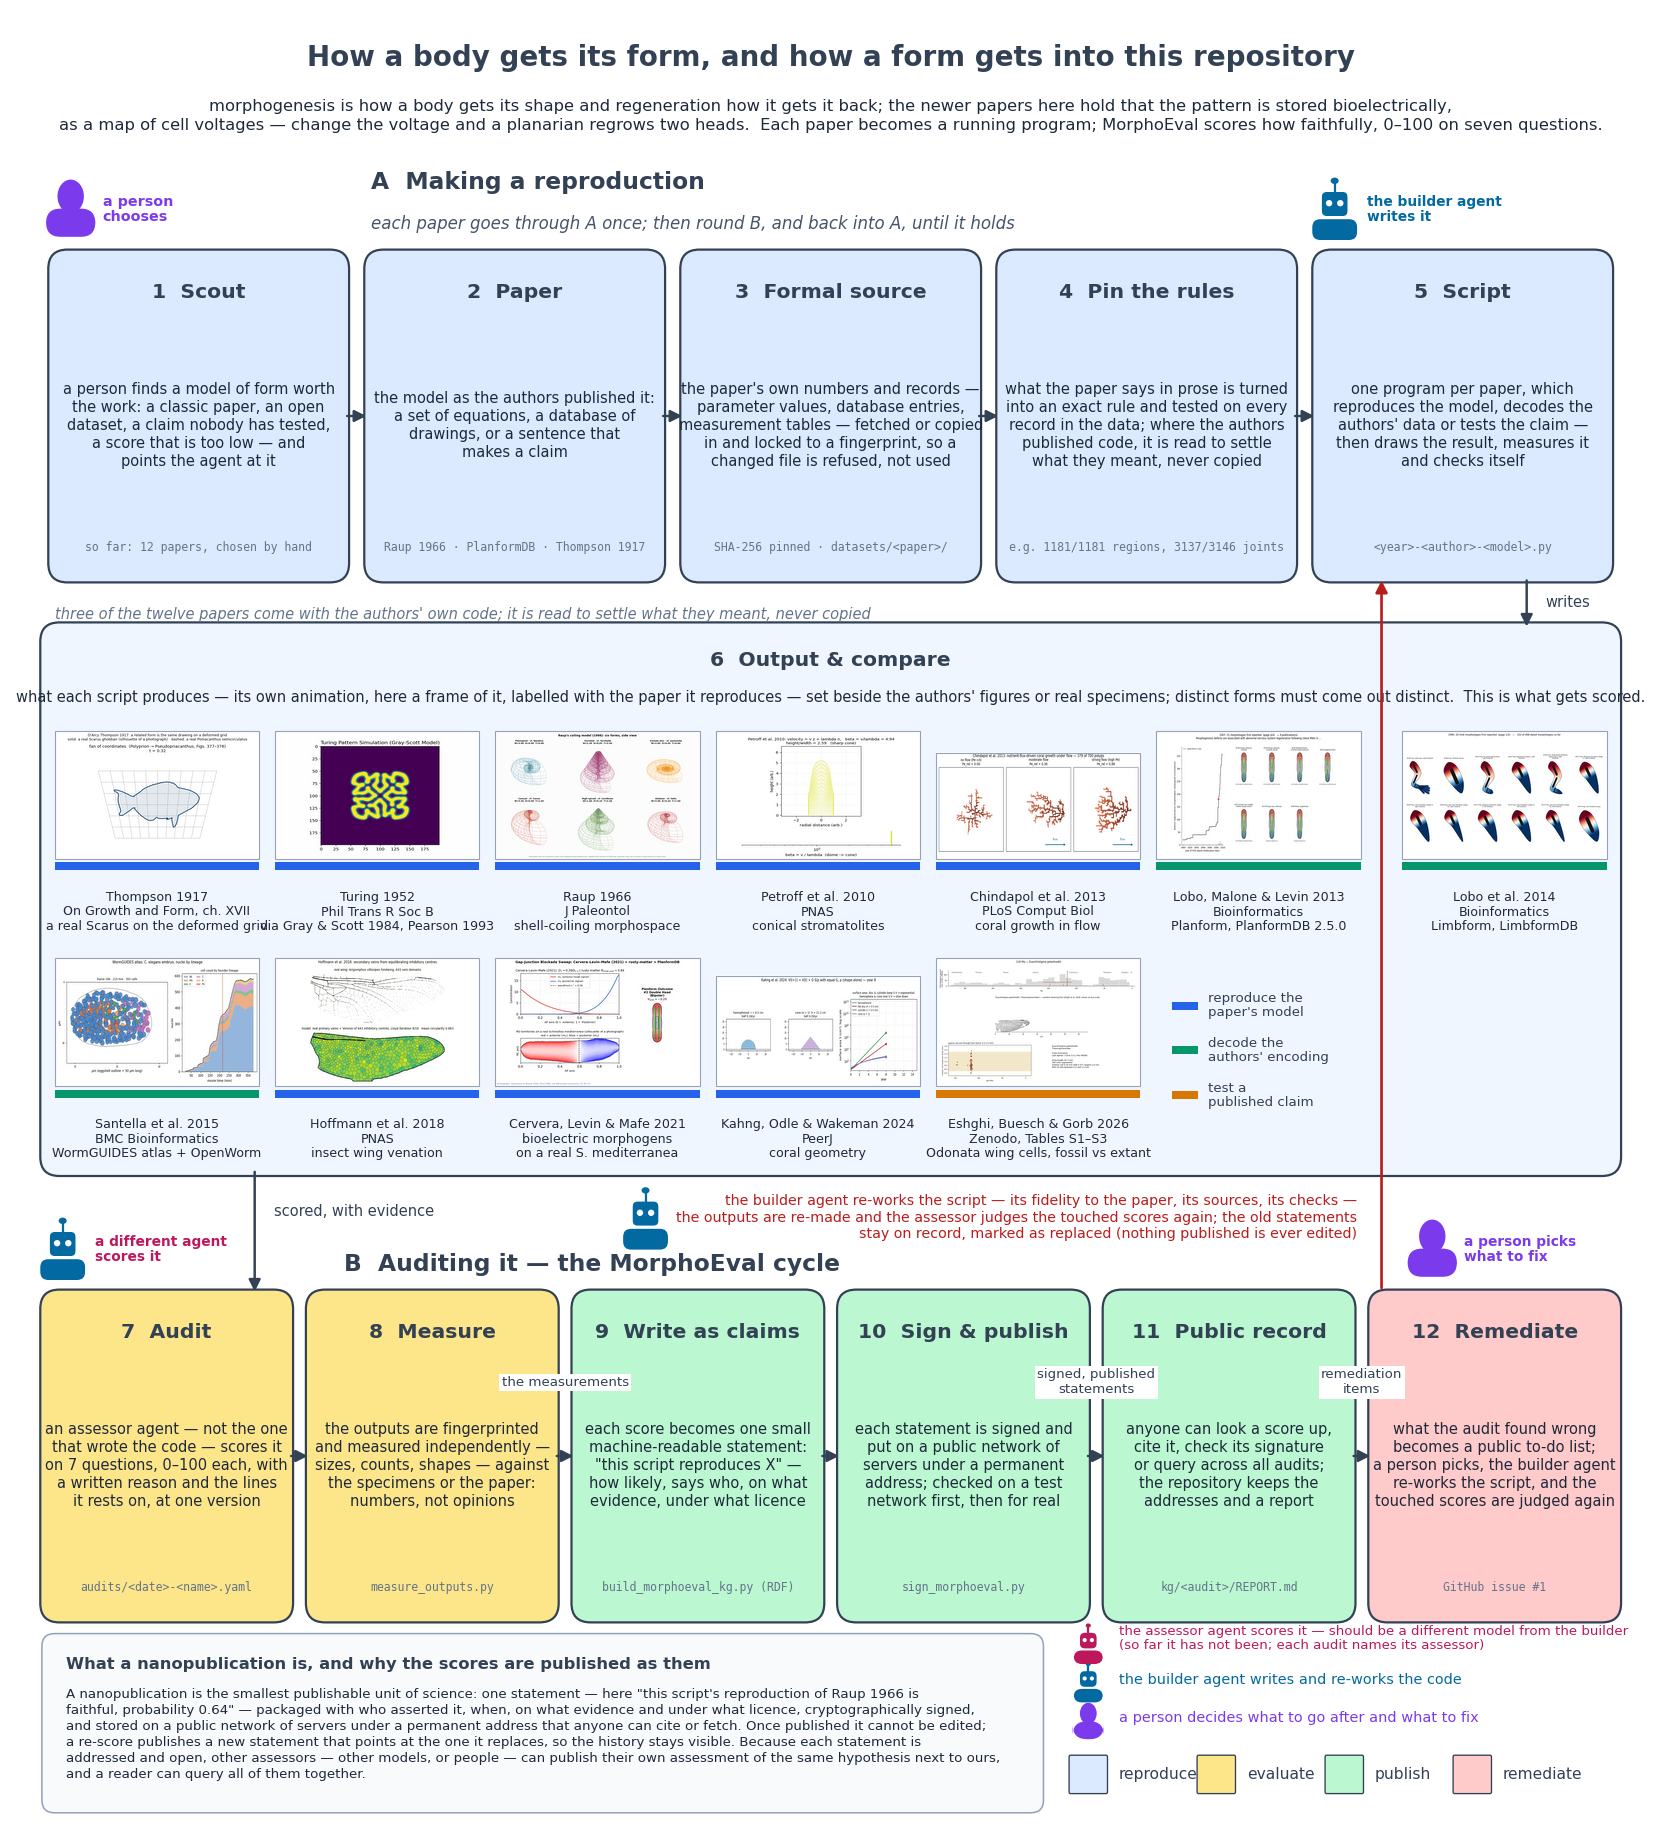
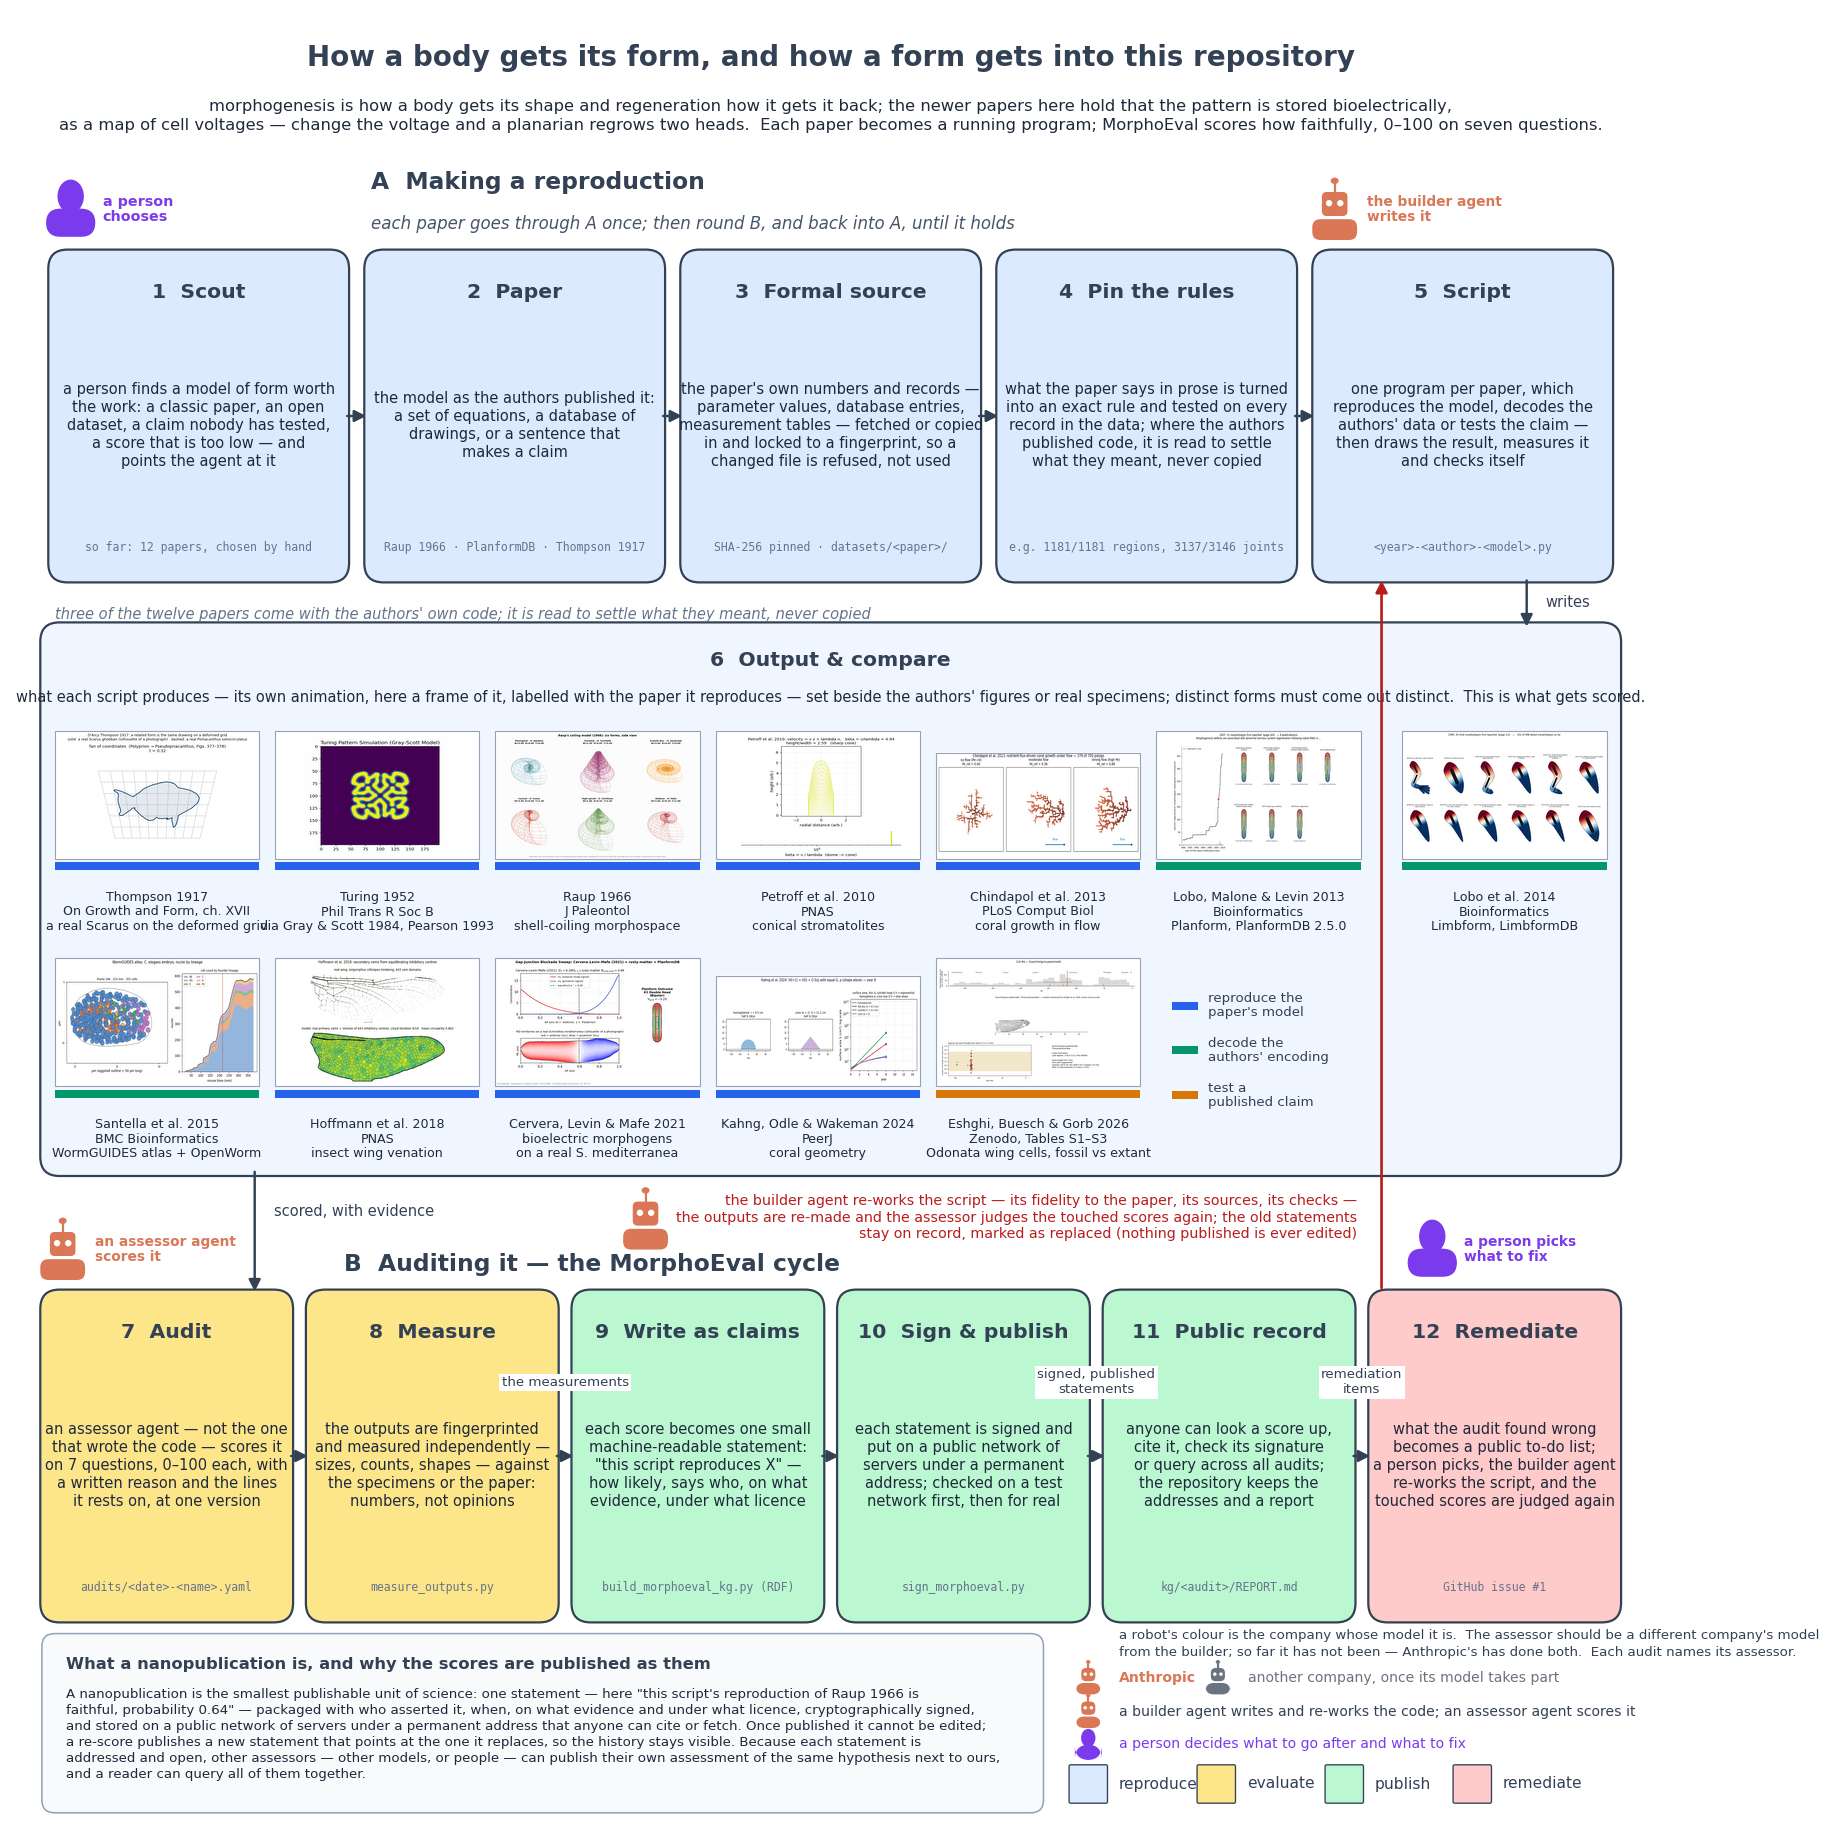
Pipeline diagram: robots coloured by the company whose model they are, read from the audits

Changed region(s): [[0.0, 0.0, 0.9825, 0.9913]]

diff --git a/morphoeval/report/draw_pipeline.py b/morphoeval/report/draw_pipeline.py
@@ -25,7 +25,40 @@ from matplotlib.patches import FancyArrowPatch, FancyBboxPatch
 
 ROOT = Path(__file__).resolve().parents[2]
 
-BUILD = "#dbeafe"; EVAL = "#fde68a"; PUB = "#bbf7d0"; LOOP = "#fecaca"; EDGE = "#334155"; RED = "#b91c1c"; HUMAN = "#7c3aed"; BUILDER = "#0369a1"; ASSESSOR = "#be185d"
+BUILD = "#dbeafe"; EVAL = "#fde68a"; PUB = "#bbf7d0"; LOOP = "#fecaca"; EDGE = "#334155"; RED = "#b91c1c"; HUMAN = "#7c3aed"
+
+# A robot's colour is the company whose model it is; its role (builder or assessor) is said in words beside it.
+# Which models have assessed is read from the audits (audit.assessor.homepage); the builder is not recorded in
+# the audits - it is the coding agent of the session that wrote the scripts - and is set here.
+PROVIDERS = {"anthropic.com": ("Anthropic", "#d97757"), "openai.com": ("OpenAI", "#10a37f"),
+             "google.com": ("Google", "#4285f4"), "deepmind.google": ("Google", "#4285f4"),
+             "x.ai": ("xAI", "#111827"), "mistral.ai": ("Mistral", "#ff7000"), "meta.com": ("Meta", "#0866ff")}
+OTHER_PROVIDER = ("another company", "#6b7280")
+BUILDER_HOMEPAGE = "https://www.anthropic.com"               # the Cursor agent (Claude) that wrote the scripts so far
+
+
+def provider(homepage):
+    host = (homepage or "").split("//")[-1].split("/")[0].lower()
+    for dom, v in PROVIDERS.items():
+        if host == dom or host.endswith("." + dom):
+            return v
+    return OTHER_PROVIDER
+
+
+def assessors_from_audits():
+    """Distinct (company, colour, model label) of the assessors named in the audits, in order of first use."""
+    import yaml
+    seen = {}
+    for f in sorted((ROOT / "morphoeval" / "audits").glob("*-audit.yaml")):
+        a = (yaml.safe_load(open(f)).get("audit") or {}).get("assessor") or {}
+        name, col = provider(a.get("homepage"))
+        seen.setdefault(name, (name, col, a.get("label") or a.get("id") or "?"))
+    return list(seen.values())
+
+
+BUILDER = provider(BUILDER_HOMEPAGE)[1]
+ASSESSORS = assessors_from_audits() or [OTHER_PROVIDER + ("?",)]
+ASSESSOR = ASSESSORS[0][1]
 # (x, y, w, h, colour, title, body) on a 100 x 100 canvas.  Top to bottom: tier A (five boxes, left -> right),
 # the outputs band (box 6), tier B (six boxes, left -> right), the note.
 YA, YB, H = 78, 13, 20
@@ -64,7 +97,7 @@ TERMS = {
     "graph": "kg/<audit>/REPORT.md", "remed": "GitHub issue #1",
 }
 HUMANS = {"scout": "a person\nchooses", "remed": "a person picks\nwhat to fix"}
-AGENTS = {"script": (BUILDER, "the builder agent\nwrites it"), "audit": (ASSESSOR, "a different agent\nscores it")}
+AGENTS = {"script": (BUILDER, "the builder agent\nwrites it"), "audit": (ASSESSOR, "an assessor agent\nscores it")}
 
 # the papers, in year order, with a frame of each reproduction's own animation (docs/media/*.gif)
 MEDIA = ROOT / "docs" / "media"
@@ -253,7 +286,10 @@ def main(argv=None):
     # the agents: who writes the code, who scores it (they should not be the same model)
     for key, (col, label) in AGENTS.items():
         x, y, w, h = BOXES[key][:4]
-        agent(ax, x + 1.0, y + h + 1.0, 1.0); ax.text(x + 3.0, y + h + 2.9, label, fontsize=6.2, color=col, va="center", fontweight="bold", linespacing=1.1)
+        cols = [a[1] for a in ASSESSORS] if key == "audit" else [col]       # one robot per company that has assessed
+        for j, c in enumerate(cols):
+            agent(ax, x + 1.0 + 3.0 * j, y + h + 1.0, 1.0, c)
+        ax.text(x + 3.0 * len(cols), y + h + 2.9, label, fontsize=6.2, color=cols[-1], va="center", fontweight="bold", linespacing=1.1)
 
     # tier A
     arrow(ax, "scout", "r", "paper", "l")
@@ -293,12 +329,21 @@ def main(argv=None):
             "as a map of cell voltages — change the voltage and a planarian regrows two heads.  Each paper becomes a running program; MorphoEval scores how faithfully, 0–100 on seven questions.",
             ha="center", va="top", fontsize=7.4, color="#1e293b", linespacing=1.35)
     for i, (c, l) in enumerate([(BUILD, "reproduce"), (EVAL, "evaluate"), (PUB, "publish"), (LOOP, "remediate")]):
-        ax.add_patch(FancyBboxPatch((65 + i * 8.0, 2.0), 2.2, 2.2, boxstyle="round,pad=0.1", fc=c, ec=EDGE, lw=0.6))
-        ax.text(68 + i * 8.0, 3.1, l, fontsize=7, va="center", color=EDGE)
-    person(ax, 66.1, 5.3, 0.7); ax.text(68, 6.6, "a person decides what to go after and what to fix", fontsize=6.5, va="center", color=HUMAN)
-    agent(ax, 66.1, 7.6, 0.65); ax.text(68, 9.0, "the builder agent writes and re-works the code", fontsize=6.5, va="center", color=BUILDER)
-    agent(ax, 66.1, 10.0, 0.65, ASSESSOR); ax.text(68, 11.6, "the assessor agent scores it — should be a different model from the builder\n"
-            "(so far it has not been; each audit names its assessor)", fontsize=6.0, va="center", color=ASSESSOR, linespacing=1.15)
+        ax.add_patch(FancyBboxPatch((65 + i * 8.0, 1.4), 2.2, 2.2, boxstyle="round,pad=0.1", fc=c, ec=EDGE, lw=0.6))
+        ax.text(68 + i * 8.0, 2.5, l, fontsize=7, va="center", color=EDGE)
+    person(ax, 66.1, 4.0, 0.6); ax.text(68, 5.0, "a person decides what to go after and what to fix", fontsize=6.3, va="center", color=HUMAN)
+    agent(ax, 66.1, 6.0, 0.55); ax.text(68, 7.0, "a builder agent writes and re-works the code; an assessor agent scores it", fontsize=6.3, va="center", color=EDGE)
+    used = [(n, c) for n, c, _ in ASSESSORS]
+    if provider(BUILDER_HOMEPAGE)[0] not in [n for n, _ in used]:
+        used.insert(0, provider(BUILDER_HOMEPAGE)[:2])
+    xx = 66.1                                                             # the companies whose models have taken part, one robot each
+    for n, c in used + [(OTHER_PROVIDER[0] + ", once its model takes part", OTHER_PROVIDER[1])]:
+        agent(ax, xx, 8.1, 0.55, c); ax.text(xx + 1.9, 9.1, n, fontsize=6.3, va="center", color=c, fontweight="bold" if c != OTHER_PROVIDER[1] else "normal")
+        xx += 3.6 + 0.5 * len(n)
+    same = len(used) == 1
+    ax.text(68, 11.8, "a robot's colour is the company whose model it is.  The assessor should be a different company's model", fontsize=6.0, va="center", color=EDGE)
+    ax.text(68, 10.7, (f"from the builder; so far it has not been — {used[0][0]}'s has done both.  Each audit names its assessor.") if same else
+            "from the builder, and is; each audit names its assessor.", fontsize=6.0, va="center", color=EDGE)
 
     out = Path(args.out); out.parent.mkdir(parents=True, exist_ok=True)
     fig.savefig(out, dpi=160, bbox_inches="tight", facecolor="white")

diff --git a/README.md b/README.md
@@ -260,7 +260,7 @@ Thompson-focused notes and dataset curation are in:
 
 [`morphoeval/`](./morphoeval/) is a seven-dimension rubric (model fidelity, specimen match, parameter expressivity, morphometric validation, source traceability, code traceability, reproducibility package; weights sum to 100) applied to the scripts above, with every score backed by line-pinned evidence at a recorded commit and by measurements taken on the rendered outputs. Audits are YAML files under `morphoeval/audits/`. Each score is then published as a *nanopublication*: the smallest publishable unit of science — one statement ("this script's reproduction of Raup 1966 is faithful, probability 0.64") packaged with who asserted it, when, on what evidence and under what licence, cryptographically signed, and stored on a public network of servers under a permanent address that anyone can cite, fetch or query. Published statements are never edited; a re-score publishes new ones that point at those they replace, so the history stays visible, and other assessors (other models, or people) can publish their own assessment of the same hypothesis next to ours. In the vocabulary of the network: ProbKnow-conformant nanopubs, one `pk:LLMClaimAssessment` per dimension with `schema:PropertyValue` measurement evidence, re-scores linked by `npx:supersedes`.
 
-How a body gets its form, and how a form gets into the repository. Two lines under the title say what morphogenesis is and that the newer papers hold the pattern to be stored bioelectrically. Tier A: a person scouts — picks a paper, dataset or claim worth the work and points the agent at it — then paper → its formal source → rules pinned and verified on the data → script. Box 6, between the tiers, is what the scripts produce: the reproductions' own animations (playing), each labelled with its paper and colour-coded by what the script does with it (reproduce the paper's model from its equations, decode the authors' formal encoding, or test a published claim), set beside the authors' figures or specimens — this is what gets scored. Tier B: the audit cycle, from the reviewer's scores to signed public statements, to a person who reads them and decides what to fix next; the builder agent then re-works the script — its fidelity to the paper, its sources, its checks — and the fix runs back up through the outputs into the script. Purple figures mark where people decide; the two robots are the builder agent (writes and re-works the code) and the assessor agent (scores it), which should be different models — so far they have not been, and each audit names its assessor (the Mermaid source is in [`morphoeval/README.md`](./morphoeval/README.md#the-cycle)):
+How a body gets its form, and how a form gets into the repository. Two lines under the title say what morphogenesis is and that the newer papers hold the pattern to be stored bioelectrically. Tier A: a person scouts — picks a paper, dataset or claim worth the work and points the agent at it — then paper → its formal source → rules pinned and verified on the data → script. Box 6, between the tiers, is what the scripts produce: the reproductions' own animations (playing), each labelled with its paper and colour-coded by what the script does with it (reproduce the paper's model from its equations, decode the authors' formal encoding, or test a published claim), set beside the authors' figures or specimens — this is what gets scored. Tier B: the audit cycle, from the reviewer's scores to signed public statements, to a person who reads them and decides what to fix next; the builder agent then re-works the script — its fidelity to the paper, its sources, its checks — and the fix runs back up through the outputs into the script. Purple figures mark where people decide; the two robots are the builder agent (writes and re-works the code) and the assessor agent (scores it); a robot's colour is the company whose model it is, read from the audits, and the assessor should be a different company's model from the builder — so far both robots are the same colour, Anthropic's, because one model has done both jobs; each audit names its assessor (the Mermaid source is in [`morphoeval/README.md`](./morphoeval/README.md#the-cycle)):
 
 ![How a reproduction is made and how MorphoEval scores it](./docs/media/morphoeval_pipeline.gif)
 

diff --git a/morphoeval/report/report.md b/morphoeval/report/report.md
@@ -96,7 +96,7 @@ purpose, unverified.
 
 # Method
 
-![How a body gets its form, and how a form gets into the repository. Two lines under the title say what morphogenesis is and that the newer papers hold the pattern to be stored bioelectrically. Tier A, making a reproduction: a person scouts, choosing a paper, dataset or claim worth the work and pointing the agent at it; the model as published (equations, an encoding, or a claim); the paper's own formal source (parameter values, database or atlas records, measurement tables), fetched or vendored with a pinned hash; the rules pinned down — inferred from prose, verified on every record, with the authors' code read to settle semantics where it exists; and the script, which reproduces, decodes or tests. Box 6, between the tiers: what the scripts produce — a frame of each of the reproductions' own animations, labelled with its paper (author, year, venue, data source) and colour-coded by what the script does with the paper — set beside the authors' figures or specimens; this is what gets scored. Tier B, the MorphoEval cycle: audit with line-pinned evidence at a commit, measurement of the rendered outputs, each score written as a machine-readable claim, signing and publication through the test registry to production, the public record, and remediation, where a person reads the scores and picks what to fix; the fix runs back up through the outputs into the script, producing a new commit and a re-audit of the touched dimensions that supersedes the earlier nanopublications. Purple figures mark the two places people decide; the two robots are the builder agent, which writes and re-works the code, and the assessor agent, which scores it — meant to be different models, which so far they have not been.](pipeline.png){height=70%}
+![How a body gets its form, and how a form gets into the repository. Two lines under the title say what morphogenesis is and that the newer papers hold the pattern to be stored bioelectrically. Tier A, making a reproduction: a person scouts, choosing a paper, dataset or claim worth the work and pointing the agent at it; the model as published (equations, an encoding, or a claim); the paper's own formal source (parameter values, database or atlas records, measurement tables), fetched or vendored with a pinned hash; the rules pinned down — inferred from prose, verified on every record, with the authors' code read to settle semantics where it exists; and the script, which reproduces, decodes or tests. Box 6, between the tiers: what the scripts produce — a frame of each of the reproductions' own animations, labelled with its paper (author, year, venue, data source) and colour-coded by what the script does with the paper — set beside the authors' figures or specimens; this is what gets scored. Tier B, the MorphoEval cycle: audit with line-pinned evidence at a commit, measurement of the rendered outputs, each score written as a machine-readable claim, signing and publication through the test registry to production, the public record, and remediation, where a person reads the scores and picks what to fix; the fix runs back up through the outputs into the script, producing a new commit and a re-audit of the touched dimensions that supersedes the earlier nanopublications. Purple figures mark the two places people decide; the two robots are the builder agent, which writes and re-works the code, and the assessor agent, which scores it; a robot's colour is the company whose model it is, read from the audits, and both are so far the same colour because one company's model has done both jobs, which the diagram says.](pipeline.png){height=70%}
 
 ## Audits
 
